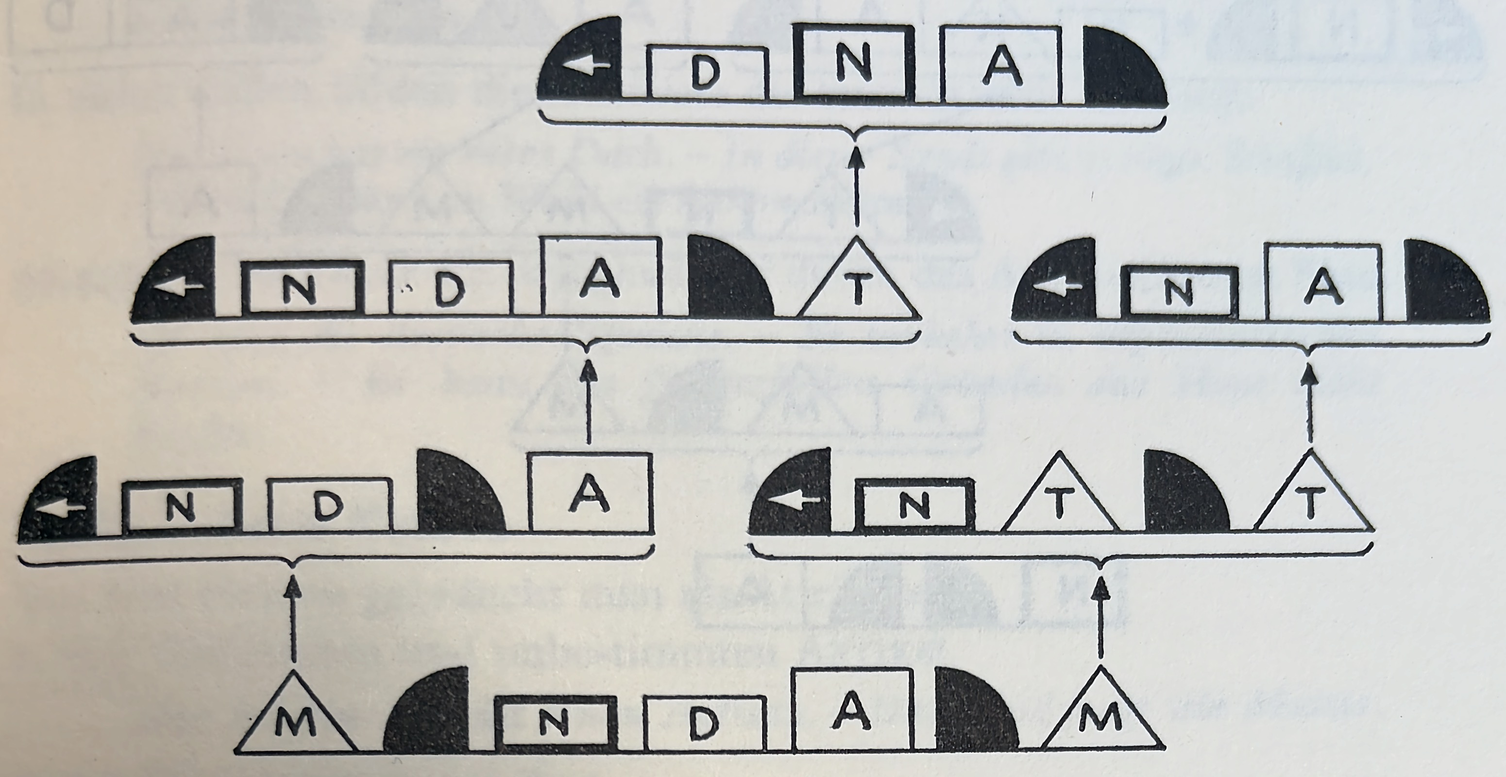
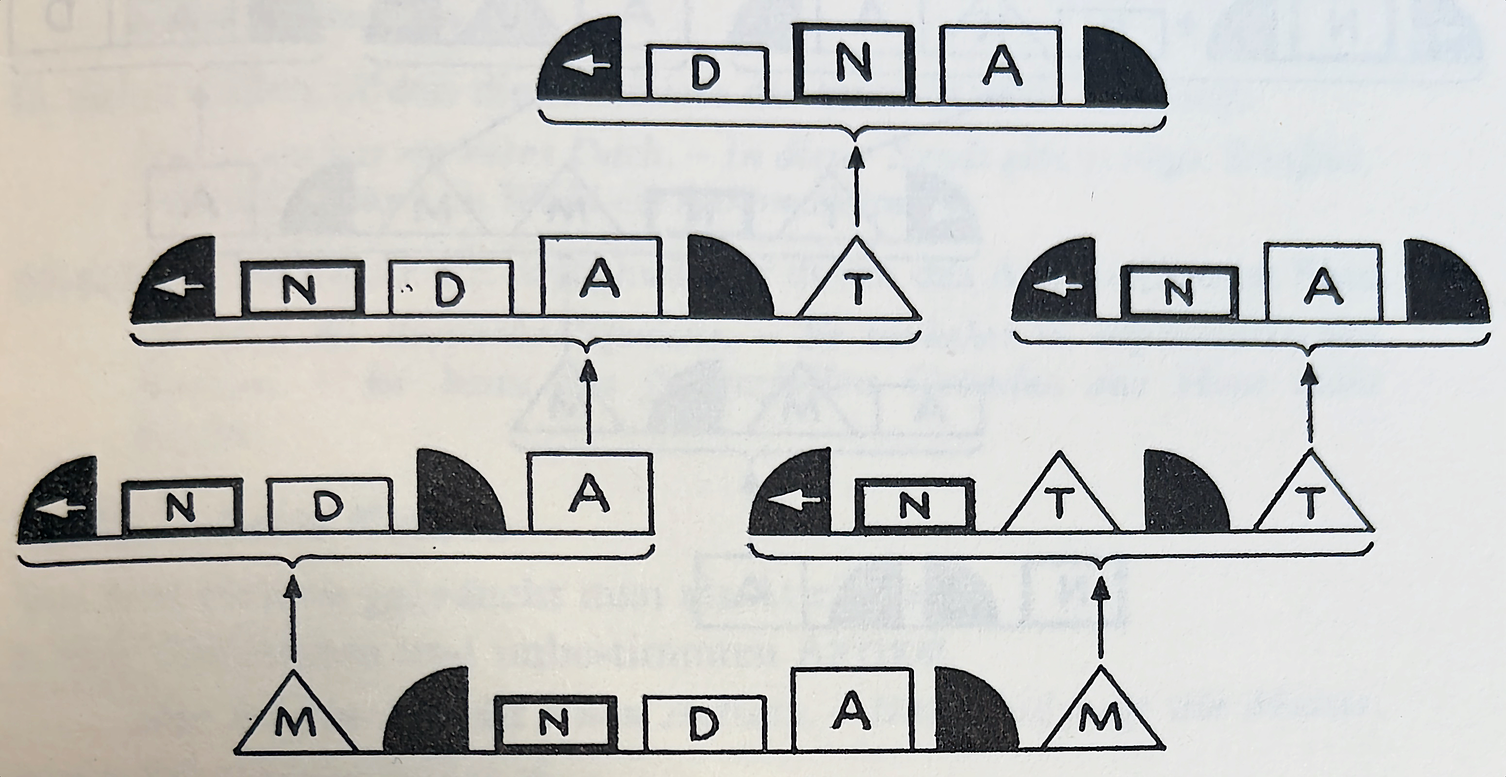
start griesbach

diff --git a/text/german.md b/text/german.md
@@ -2038,6 +2038,22 @@ https://de.wikipedia.org/wiki/Dora_Schulz
 
 first edition with nice graphics [@griesbach1960] 8th edition with much simpler format, but identical content [@griesbach1970]
 
+*Satzrahmen* (today *Verbalklammer*)
+
+Vorfeld-Satzfeld-Nachfeld
+
+::: ex
+Wenn du mir versprichst, daß du mir das Geld wiedergibst, sobald dir dein Vater den Scheck geschickt hat, kann ich dir die 100 Mark geben, obwohl ich noch mindestens zwei Wochen warten muß, bis ich mein nächstes Gehalt bekomme.
+:::
+
+::: {.im #griesbach1960_371}
+*Satzbild* of the multiple embedded sentence [@last] from Griesbach & Schulz [-@griesbach1960: 371].
+:::
+
+::: {.im #griesbach1970_417}
+Updated *Satzbild* of the same sentence as shown in [@fig:griesbach1960_371] from the 8th edition of Griesbach & Schulz [-@griesbach1970: 417].
+:::
+
 ### Grosse (1960) *Die deutsche Satzperiode*
 
 [@grosse1960] indented subordinates clauses
